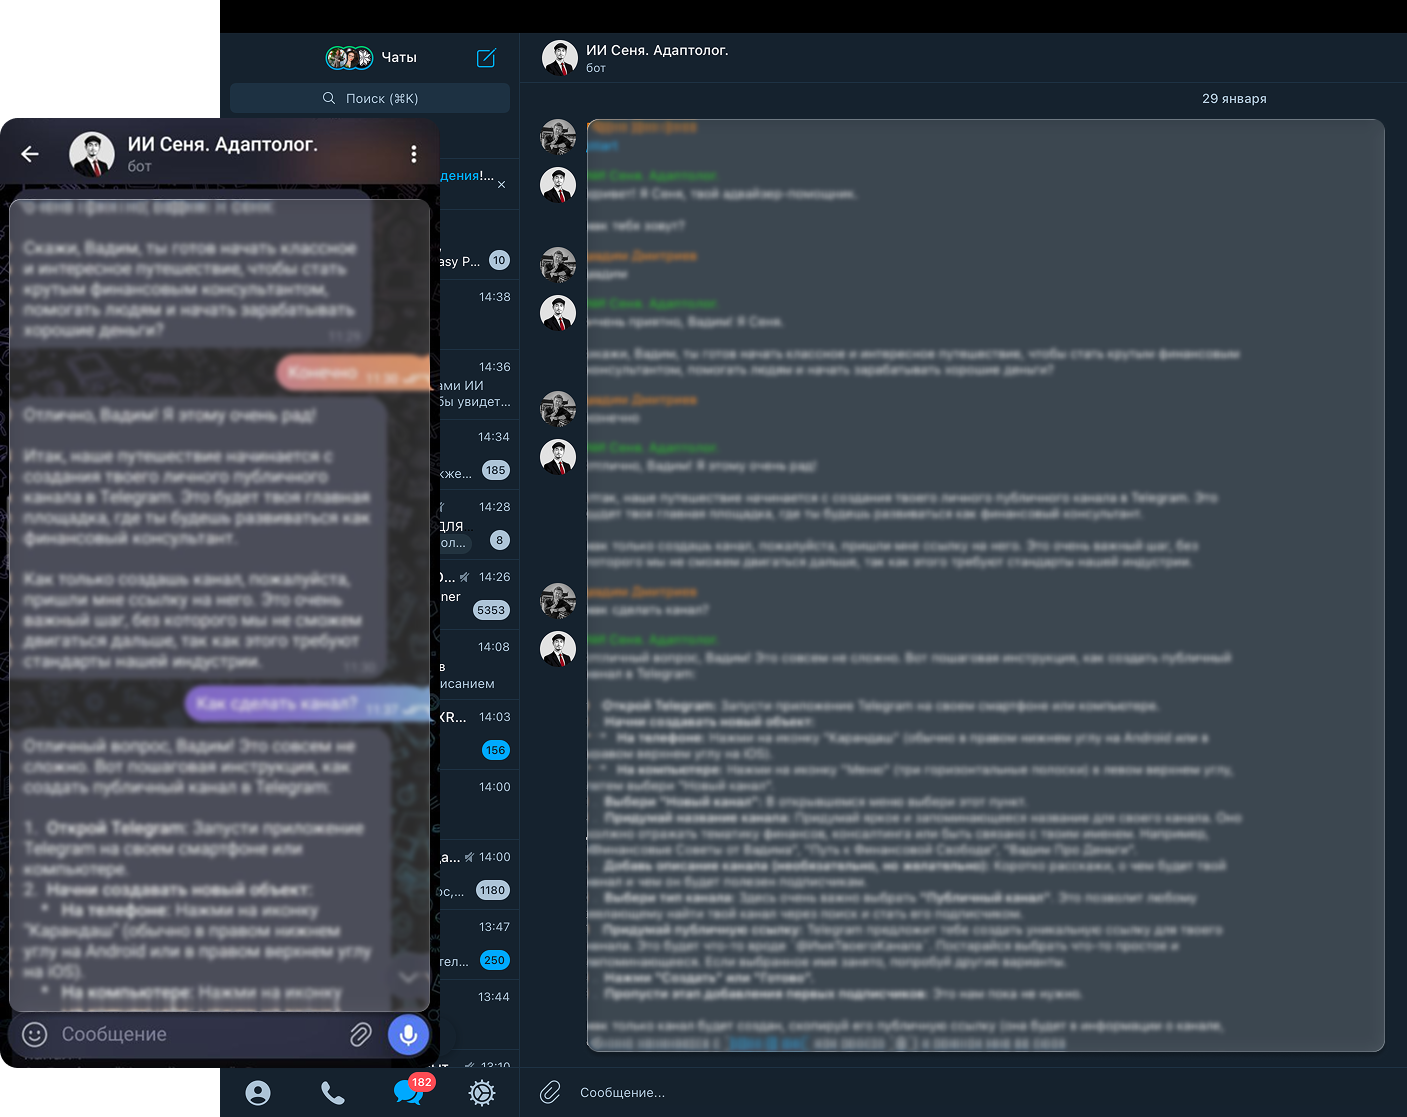
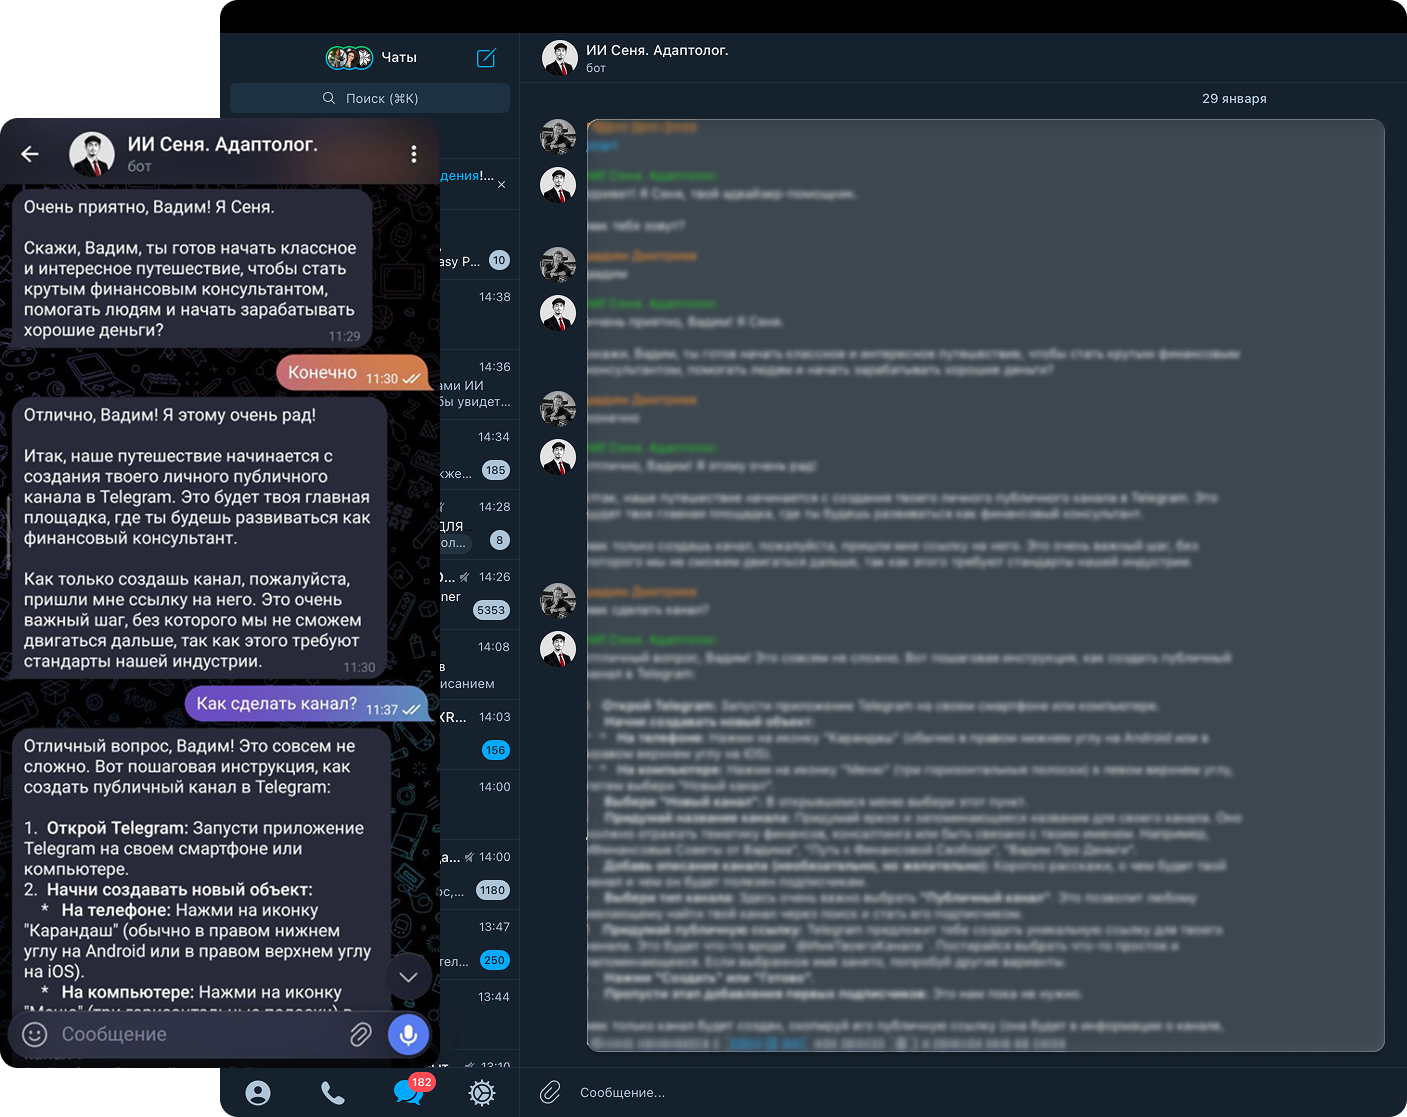
Необрезанные картинки в блоке ИИ Адаптолог (Telegram)

Changed region(s): [[0.0, 0.1522, 0.3056, 0.9132]]

diff --git a/style.css b/style.css
@@ -1188,8 +1188,9 @@ h1 {
 }
 
 .visual-pane img {
-    max-width: 100%;
-    height: auto;
+    width: 100%;
+    height: 100%;
+    object-fit: contain;
     border-radius: 20px;
     transition: opacity 0.5s ease;
 }
